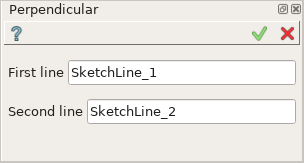
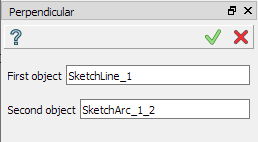
Task 2.1. To be able to put an orthogonality constraint between an arc and a line
Documentation update

Changed region(s): [[0.0, 0.0, 1.0, 1.0]]

diff --git a/src/SketchPlugin/doc/perpendicularFeature.rst b/src/SketchPlugin/doc/perpendicularFeature.rst
@@ -1,15 +1,16 @@
 .. _sketchPerpendicular:
-.. |perpendicular.icon|    image:: images/perpendicular.png
+.. |Perpendicular.icon|    image:: images/Perpendicular.png
 
 Perpendicular constraint
 ========================
 
 Perpendicular constraint fixes two lines at 90 degrees to one another.
+For a line and a circle/arc the perpendicular constraint fixes the center of circle/arc to be on a line.
 
 To create a Perpendicular constraint in the active Sketch:
 
 #. select in the Main Menu *Sketch - > Perpendicular* item  or
-#. click |perpendicular.icon| **Perpendicular** button in Sketch toolbar:
+#. click |Perpendicular.icon| **Perpendicular** button in Sketch toolbar:
 
 Property panel:
 
@@ -18,10 +19,12 @@ Property panel:
 
 Input fields:
 
-- **First line** is the first line selected in the view.
-- **Second line** is the second line selected in the view.
+- **First object** is the first line, circle or arc selected in the view.
+- **Second object** is the second line, circle or arc selected in the view.
 
-After the lines are selected, a special sign will be added to each of them in the view.
+After the objects are selected, a special sign will be added to each of them in the view.
+
+If one of selected objects is circular, then another has to be a straight line.
 
 **TUI Command**:
 
@@ -37,7 +40,7 @@ Result
 Created Perpendicular constraint appears in the view.
 
 .. image:: images/Perpendicular_res.png
-	   :align: center
+           :align: center
 
 .. centered::
    Created perpendicular constraint
